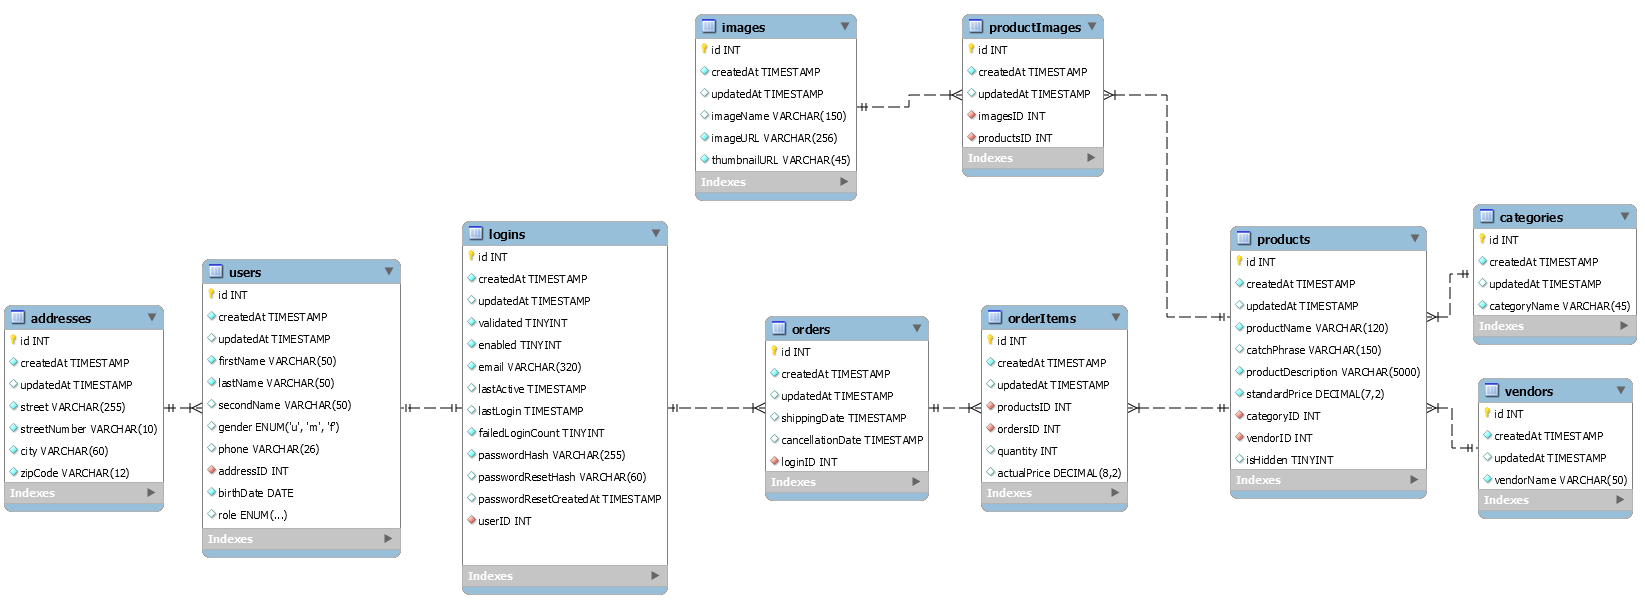
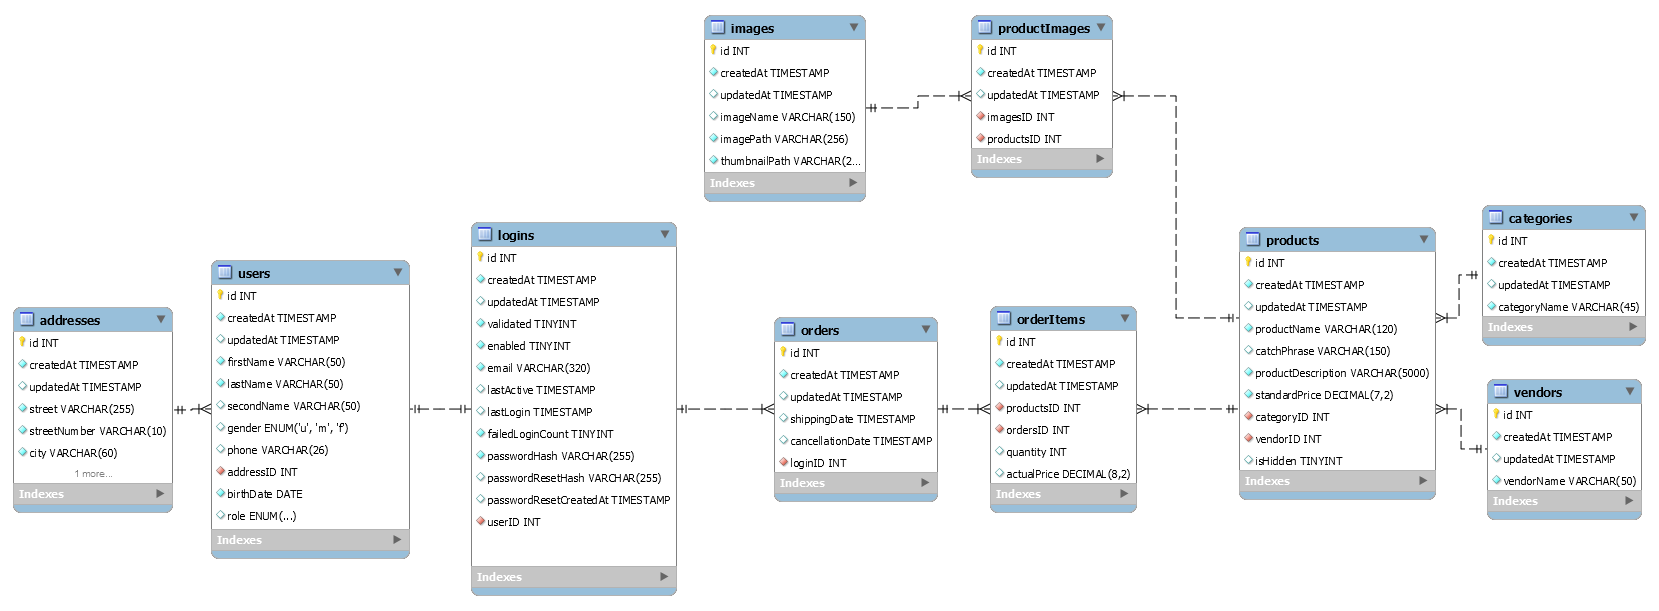
updated images in documentation

diff --git a/docs/index.html b/docs/index.html
@@ -610,6 +610,18 @@
                     </section>
                     <section>
                         <h4>Produktkacheln</h4>
+                        
+                        <div class="row">
+                            <div class="column">
+                                <img src="images/views/viewAssets/productCard_visible.png" alt="">
+                                <span class="imageTitle">Sichtbares Produkt</span>
+                            </div>
+                            <div class="column">
+                                <img src="images/views/viewAssets/productCard_hidden.png" alt="">
+                                <span class="imageTitle">Ausgeblendetes Produkt</span>
+                            </div>
+                        </div>
+                        
                         <p>
                             Die Produktkacheln haben verschiedene Zustände. Ist ein Produkt sichtbar, so wird das Vorschaubild farbig angezeigt und mit einer orangefarbenen unteren Rahmenlinie betont. Zudem wird ein "Zum Warenkorb hinzufügen" Button angezeigt. Ist ein Produkt hingegen
                             ausgeblendet - also nur für Administratoren sichtbar - wird das Bild in Graustufen dargestellt und mit einer grauen Rahmenlinie unterstrichen. Zudem wird hierbei für eine intuitivere Kennzeichnung der Warenkorb - Button durch ein
@@ -747,11 +759,11 @@
                         <h4>Unsere Marken</h4>
                         <div class="row">
                             <div class="column">
-                                <img src="images/views/products/search_vendors.png" alt="">
+                                <img src="images/views/products/vendors_desktop.png" alt="">
                                 <span class="imageTitle">Unsere Marken - Desktop Ansicht</span>
                             </div>
                             <div class="column">
-                                <img src="images/views/products/search_vendors.png" alt="">
+                                <img src="images/views/products/vendors_mobile.png" alt="">
                                 <span class="imageTitle">Unsere Marken - Mobile Ansicht</span>
                             </div>
                         </div>
@@ -937,7 +949,7 @@
                                 <span class="imageTitle">Warenkorb - Desktop Ansicht</span>
                             </div>
                             <div class="column">
-                                <img src="images/views/productManagement/edit_mobile.png" alt="">
+                                <img src="images/views/orders/cart_mobile.png" alt="">
                                 <span class="imageTitle">Warenkorb - Mobile Ansicht</span>
                             </div>
                         </div>
@@ -2200,9 +2212,9 @@
                         </tr>
                         <tr>
                             <td>13.02</td>
-                            <td>CSS für CatchPhrase und Cart angepasst</td>
+                            <td>CSS für CatchPhrase und Cart angepasst, Bilder in Doku angepasst, ER Modell aktualisiert</td>
                             <td>Robin Beck</td>
-                            <td>0,43 h</td>
+                            <td>1 h</td>
                         </tr>
                     </table>
                 </section>

diff --git a/docs/documentation.css b/docs/documentation.css
@@ -280,4 +280,9 @@ img {
 
 .column img {
     max-width: 100%;
+    margin: 0 auto;
+}
+
+.column span {
+    text-align: center;
 }
